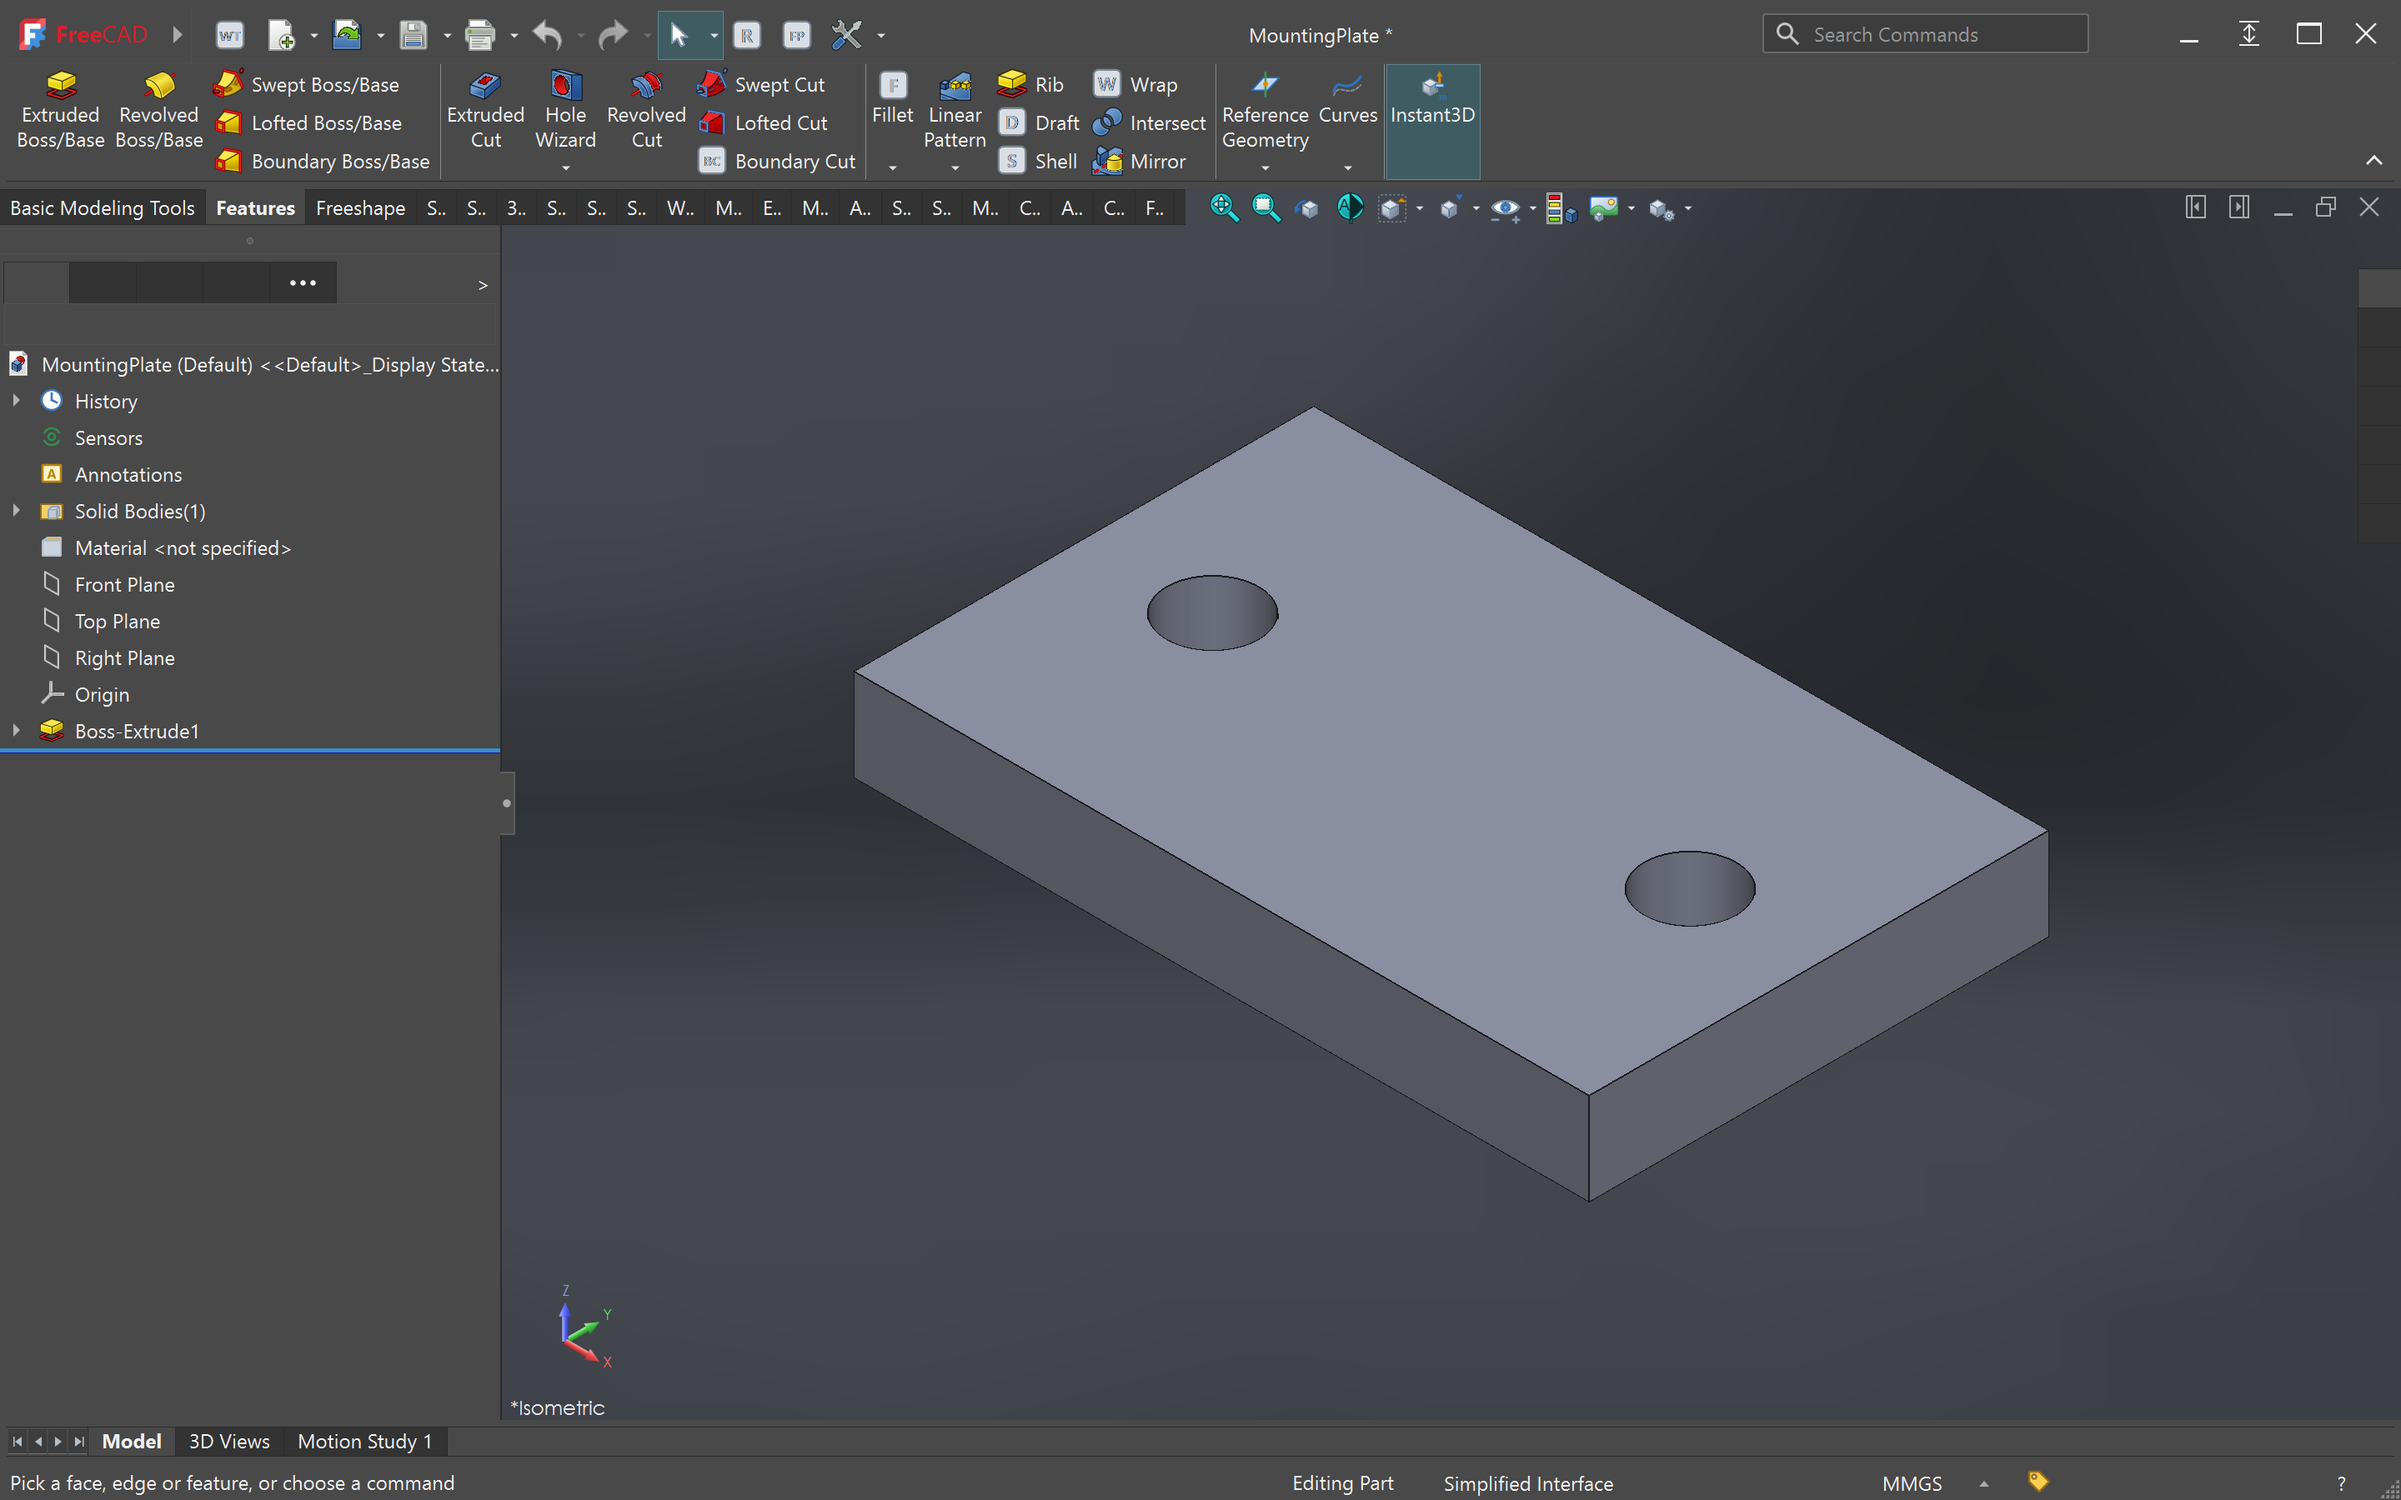
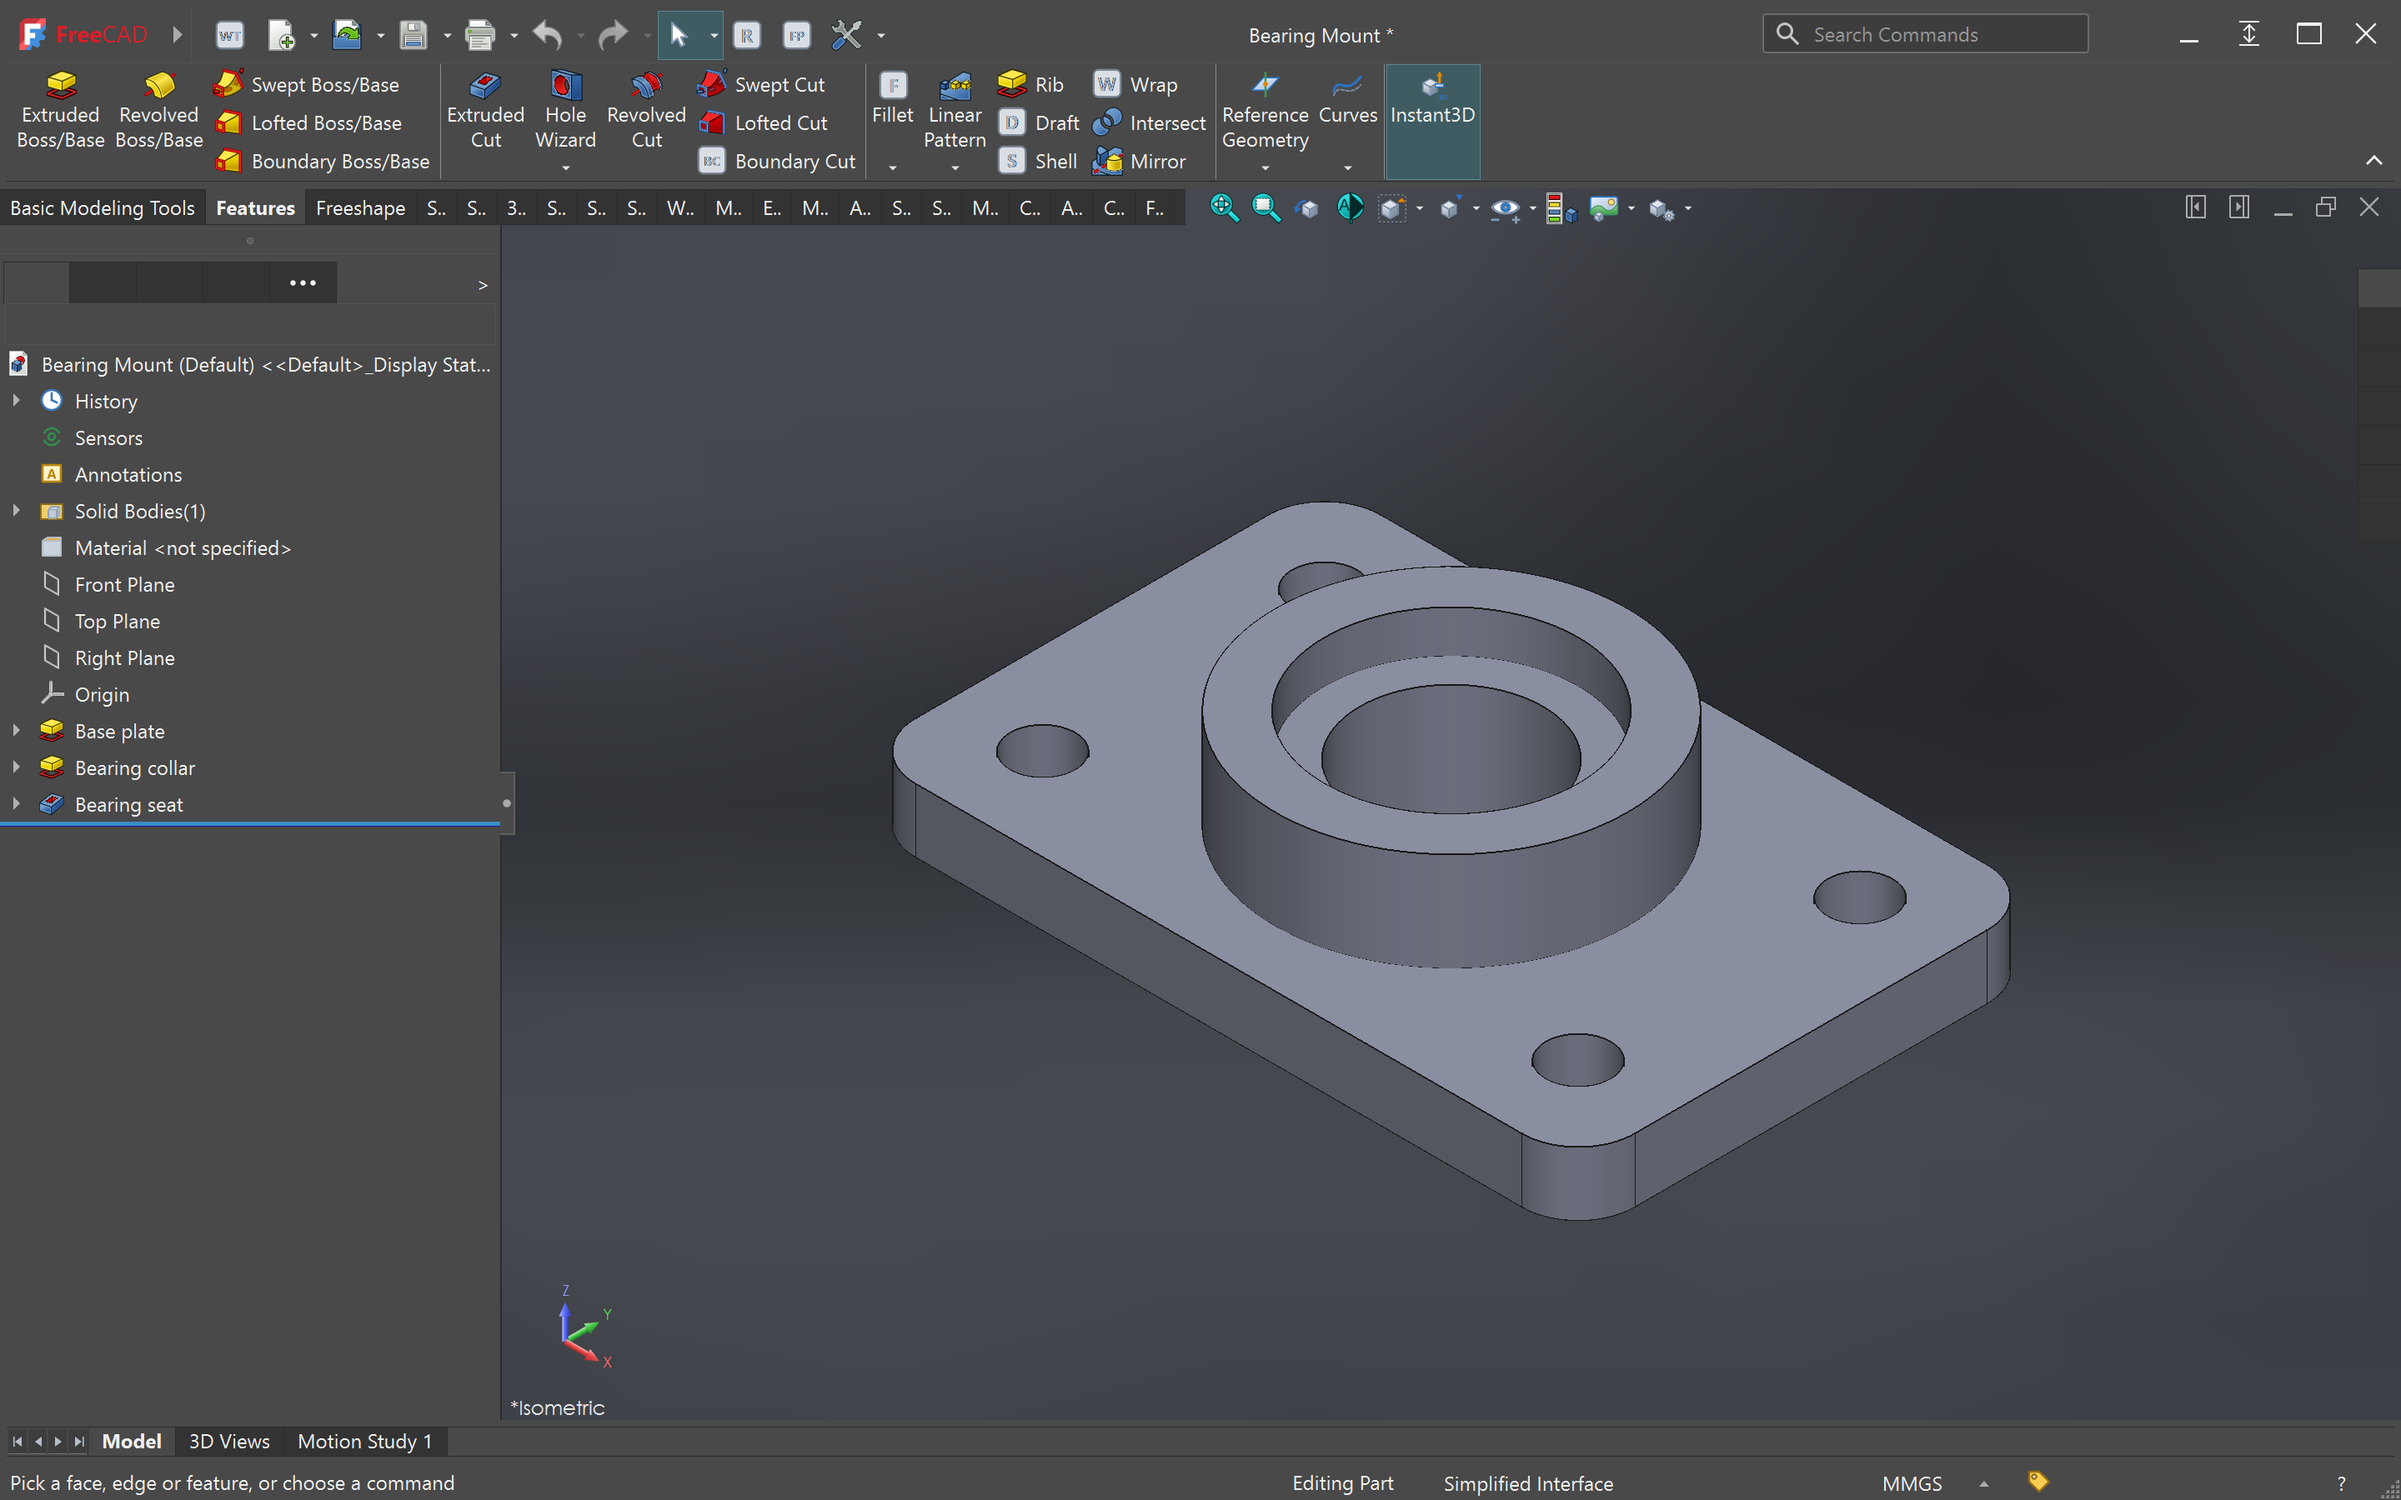
Refresh screenshots from the clean FreeWorks alpha

diff --git a/README.md b/README.md
@@ -22,13 +22,13 @@ Sketching is the best place to start. The walkthrough below takes you from a sna
 
 ## Screenshots
 
-**Part workspace and feature tree.** Ribbon commands across the top, model history and the blue rollback bar on the left, and a two-hole mounting plate in the viewport.
+**Part workspace and feature tree.** Ribbon commands across the top, model history and the blue rollback bar on the left, and a bearing mount in the viewport.
 
-![FreeWorks part workspace showing the ribbon, feature tree, rollback bar, and a two-hole mounting plate](docs/images/interface-feature-tree.png)
+![FreeWorks part workspace showing the ribbon, feature tree, rollback bar, and a bearing mount](docs/images/interface-feature-tree.png)
 
-**Sketch editing.** The same plate in sketch mode, showing the sketch tools, shaded contour, constraint indicators, and hole diameters.
+**Sketch editing.** The same bearing mount in sketch mode, showing the sketch tools and shaded mounting profile.
 
-![FreeWorks sketch editor showing a shaded rectangular profile with two dimensioned holes](docs/images/sketching.png)
+![FreeWorks sketch editor showing the shaded bearing mount profile and its holes](docs/images/sketching.png)
 
 ## Requirements and quick install
 
